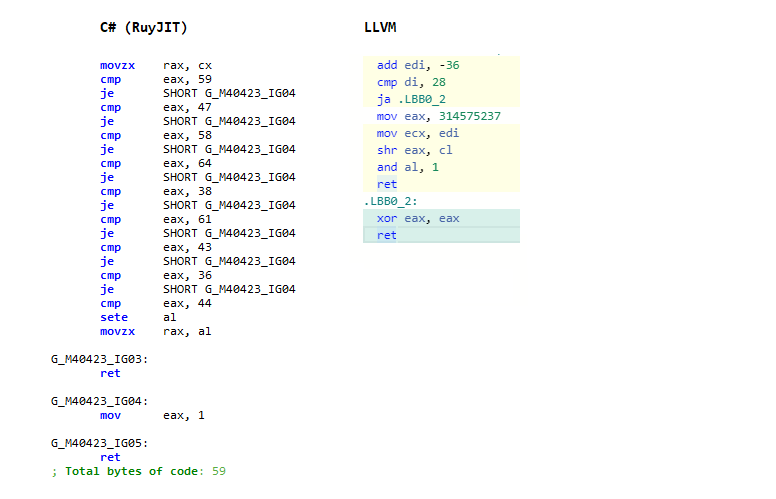
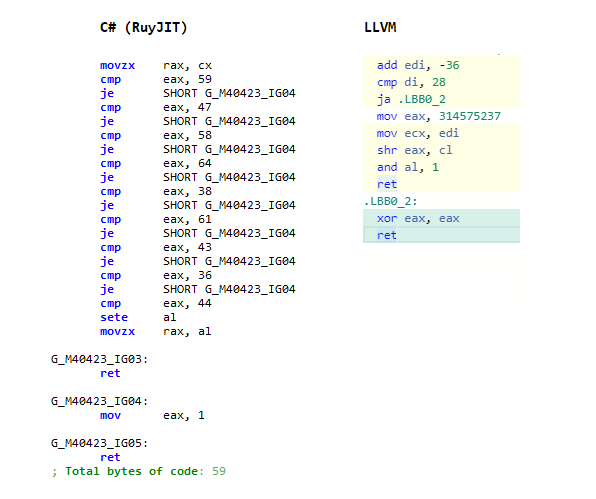
ef

diff --git a/_posts/2019-08-03-llvm-cmp-to-shr.md b/_posts/2019-08-03-llvm-cmp-to-shr.md
@@ -34,8 +34,57 @@ bool IsReservedCharacter(char character) // uint16_t
 {% endhighlight %}
 Now let's compare RuyJIT and LLVM:
 <!--more-->
+
+<figure class="alignleft">
+{% highlight nasm linenos %}
+; C# RuyJIT
+  movzx    rax, cx
+  cmp      eax, 59
+  je       SHORT G_M40423_IG04
+  cmp      eax, 47
+  je       SHORT G_M40423_IG04
+  cmp      eax, 58
+  je       SHORT G_M40423_IG04
+  cmp      eax, 64
+  je       SHORT G_M40423_IG04
+  cmp      eax, 38
+  je       SHORT G_M40423_IG04
+  cmp      eax, 61
+  je       SHORT G_M40423_IG04
+  cmp      eax, 43
+  je       SHORT G_M40423_IG04
+  cmp      eax, 36
+  je       SHORT G_M40423_IG04  
+  cmp      eax, 44
+  sete     al
+  movzx    rax, al
+G_M40423_IG03:
+  ret      
+G_M40423_IG04:
+  mov      eax, 1
+G_M40423_IG05:
+  ret
+{% endhighlight %}
+</figure>
+
+<figure class="alignleft">
+{% highlight nasm linenos %}
+; LLVM
+  add edi, -36
+  cmp di, 28
+  ja .LBB0_2
+  mov al, 1
+  movzx ecx, di
+  mov edx, 314575237        
+  bt rdx, rcx
+  jae .LBB0_2
+  ret
+.LBB0_2:
+  xor eax, eax
+  ret
+{% endhighlight %}
+</figure>
 <figure class="aligncenter">
-	<img src="/images/9cmp/p1.png" />
 </figure>
 
 As you can see C# generated a pretty simple set of 9 cmp + jumps. LLVM generated something strange with magic numbers and just two branches. Let's try to convert (disassemble) LLVM's output to C#:
